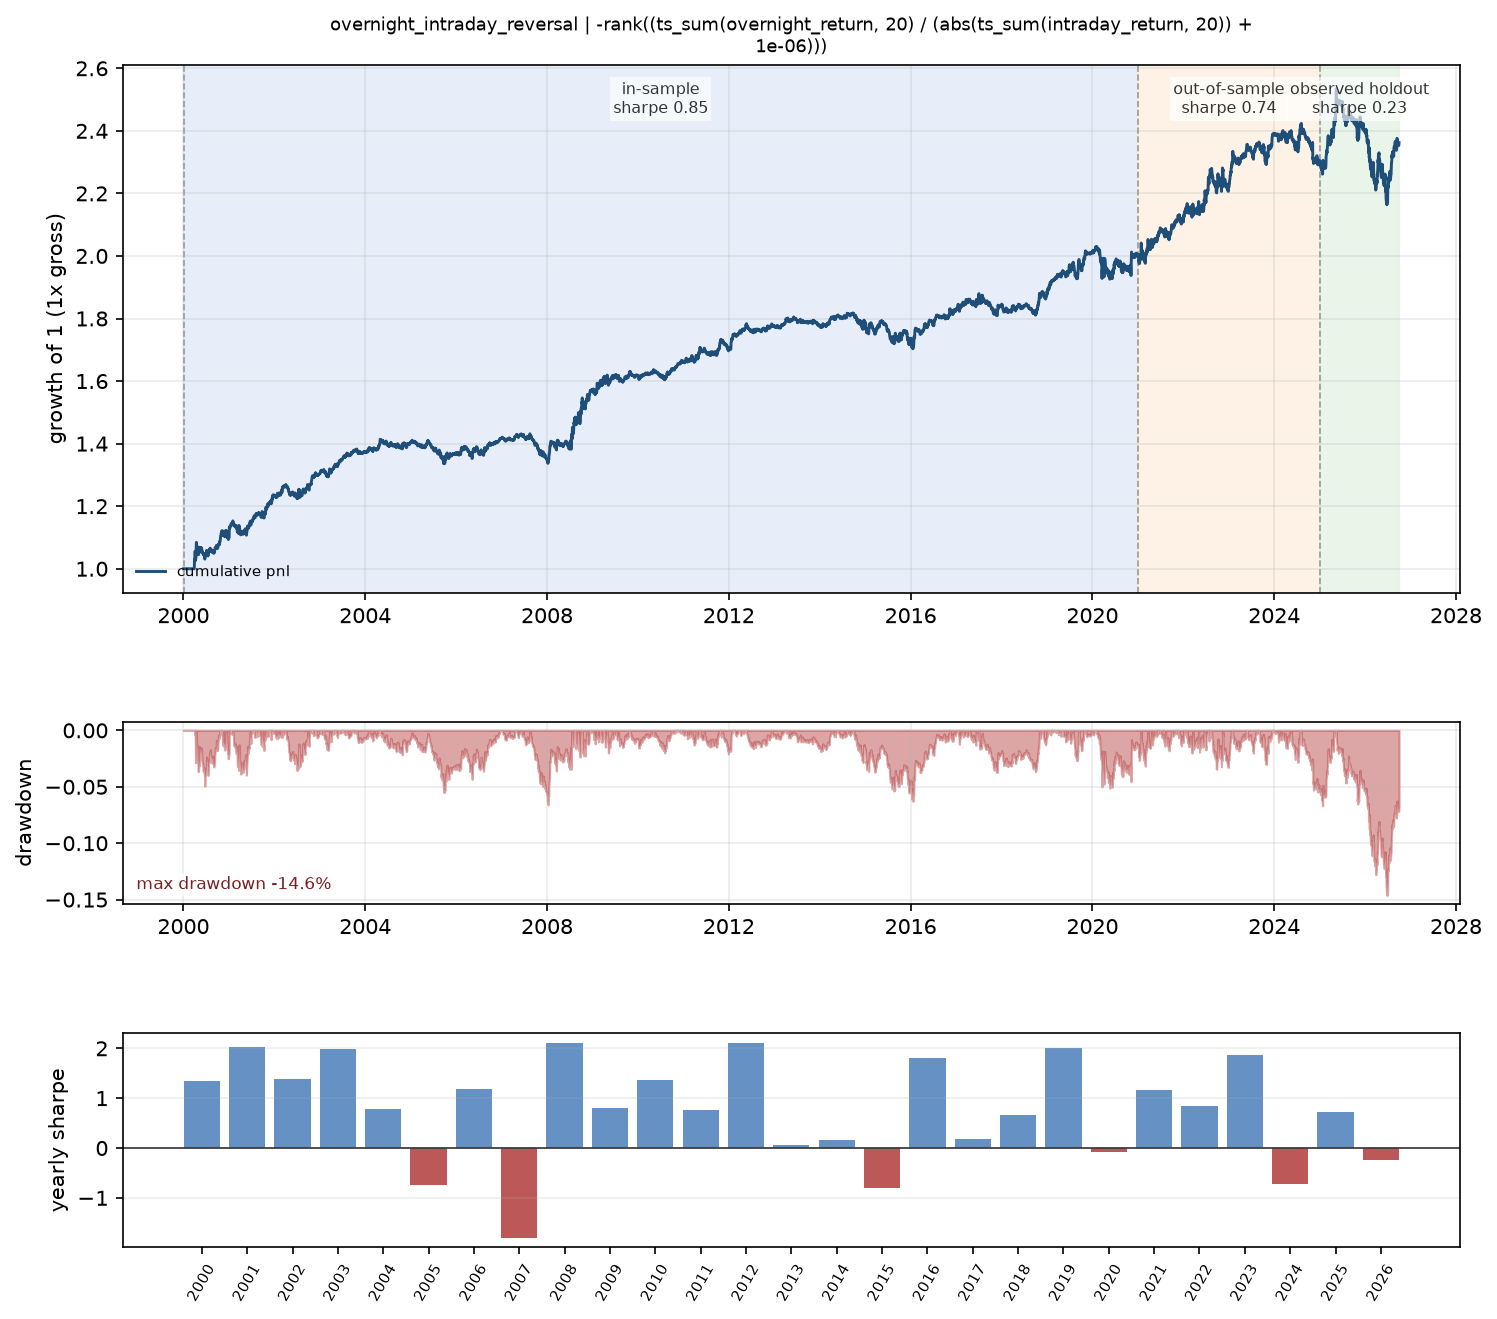
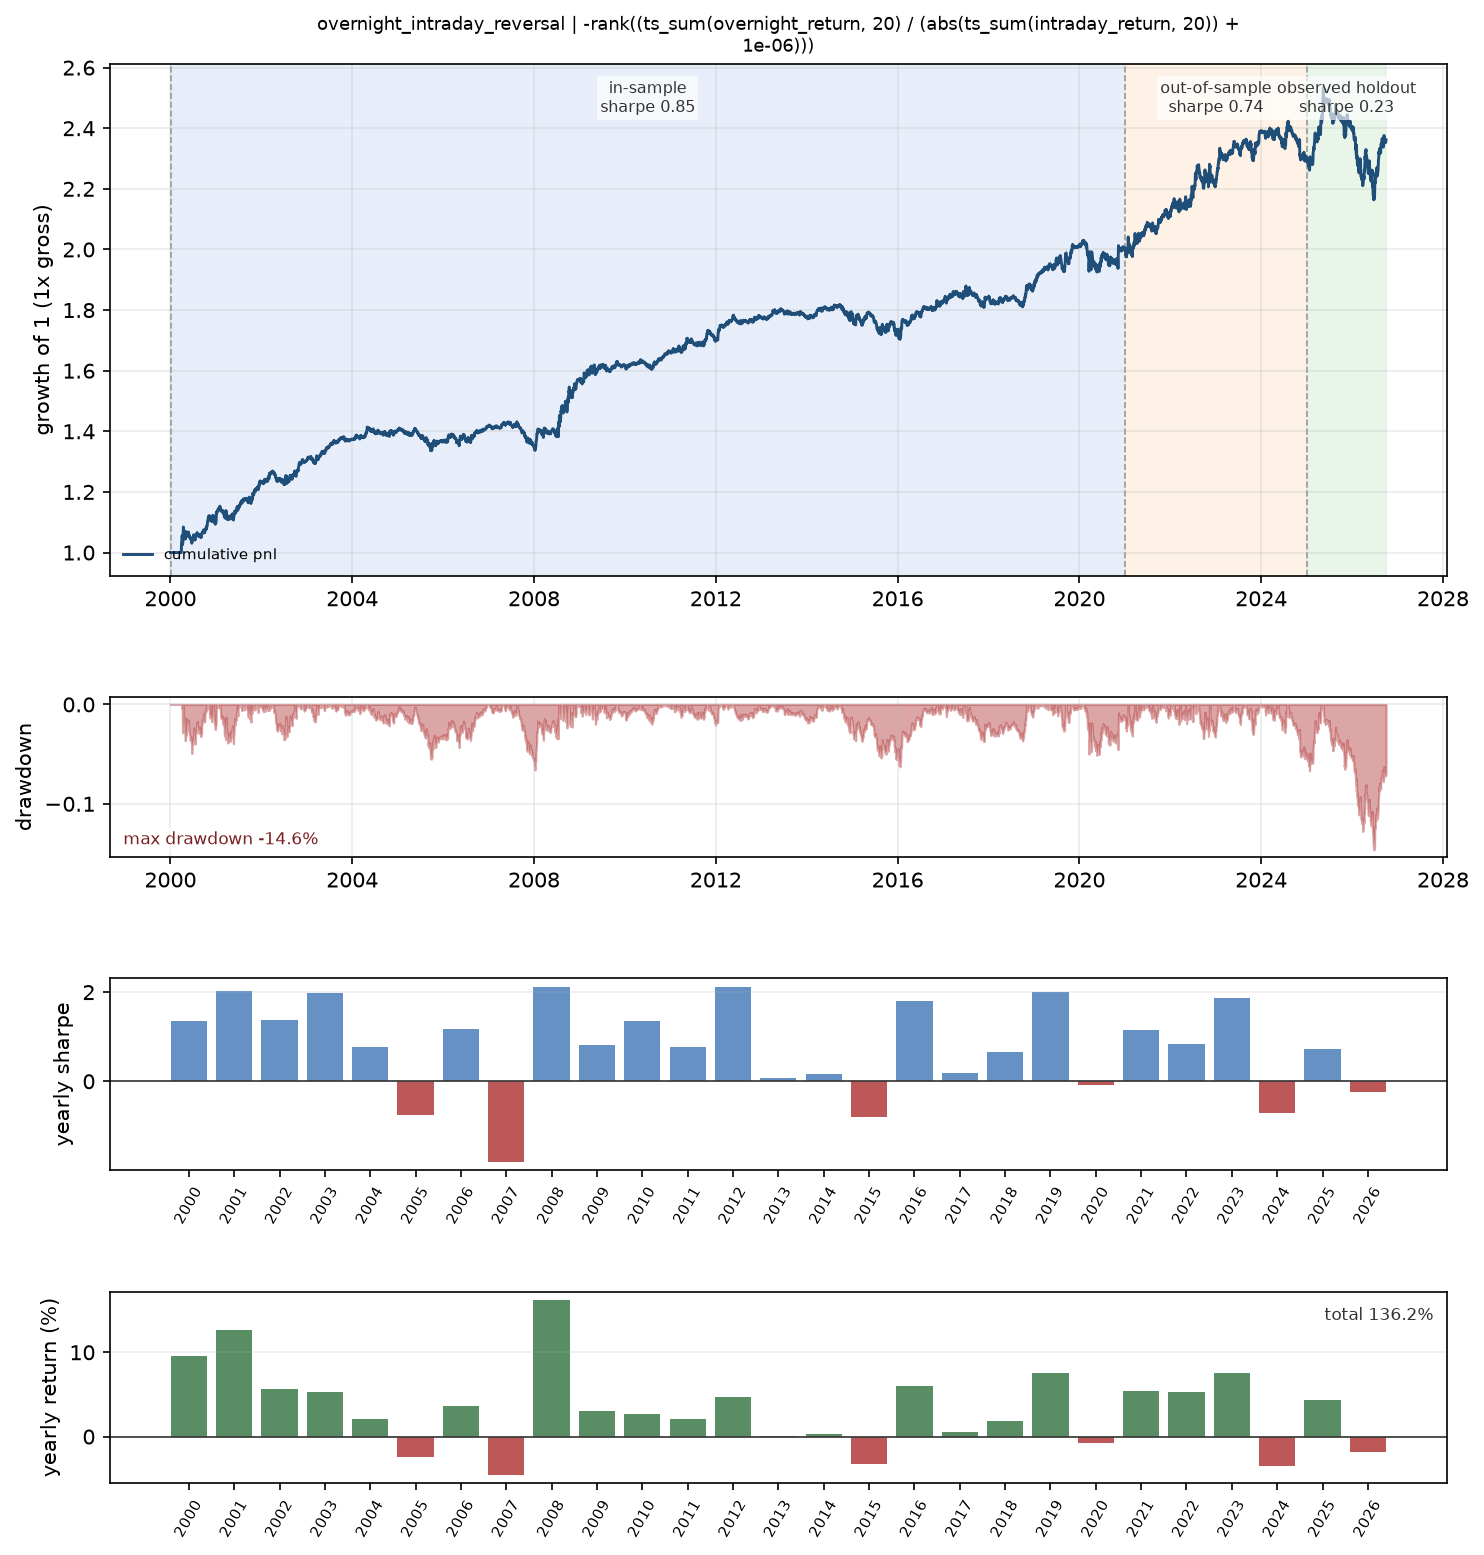
feat(view): add yearly return panel to experiment figures
- figures are now four panels: equity (segment shading), drawdown,
  yearly sharpe, yearly return (%)
- plotting refactored into draw_panels so figures can be redrawn from the
  saved daily csv without replaying the backtest
- new 'replot' command refreshes a batch's figures; writes are atomic with
  retries so a briefly locked file cannot abort a batch
- all ten batch figures redrawn; 1 new test (85 total)

diff --git a/factorlab/view.py b/factorlab/view.py
@@ -167,22 +167,58 @@ def plot_result(
     out_path: Path,
     title: str,
 ) -> Path:
+    return draw_panels(
+        result.pnl,
+        result.turnover,
+        result.ic,
+        result.segments or {},
+        masks,
+        out_path,
+        title,
+    )
+
+
+def plot_from_daily(
+    daily_csv: str | Path,
+    masks,
+    segments: dict,
+    out_path: Path,
+    title: str,
+) -> Path:
+    """Redraw from a saved ``*_daily.csv`` without replaying the backtest."""
+    frame = pd.read_csv(Path(daily_csv), index_col=0, parse_dates=True)
+    return draw_panels(
+        frame["pnl"],
+        frame.get("turnover"),
+        frame.get("rank_ic"),
+        segments,
+        masks,
+        out_path,
+        title,
+    )
+
+
+def draw_panels(pnl_series, turnover_series, ic_series, segments, masks, out_path: Path, title: str) -> Path:
+    """Equity, drawdown, yearly sharpe and yearly return in one figure."""
     import matplotlib
 
     matplotlib.use("Agg")
     import matplotlib.pyplot as plt
     from matplotlib.transforms import blended_transform_factory
 
-    pnl = result.pnl.fillna(0.0)
+    pnl = pd.Series(pnl_series).fillna(0.0)
+    turnover = pd.Series(turnover_series) if turnover_series is not None else pd.Series(0.0, index=pnl.index)
+    ic = pd.Series(ic_series) if ic_series is not None else pd.Series(np.nan, index=pnl.index)
     equity = (1 + pnl).cumprod()
     drawdown = equity / equity.cummax() - 1
-    yearly = yearly_stats(result.pnl, result.turnover, result.ic)
+    yearly = yearly_stats(pnl, turnover, ic)
+    segments = segments or {}
 
     fig, axes = plt.subplots(
-        3,
+        4,
         1,
-        figsize=(11.5, 9.5),
-        gridspec_kw={"height_ratios": [3.2, 1.1, 1.3], "hspace": 0.42},
+        figsize=(11.5, 11.4),
+        gridspec_kw={"height_ratios": [3.2, 1.0, 1.2, 1.2], "hspace": 0.46},
     )
 
     # ---- equity, shaded by segment -----------------------------------
@@ -201,7 +237,7 @@ def plot_result(
         idx = mask.index[mask.to_numpy()]
         ax.axvspan(idx[0], idx[-1], color=color, alpha=0.75, zorder=0)
         ax.axvline(idx[0], color="#999999", linewidth=0.8, linestyle="--", zorder=1)
-        seg = (result.segments or {}).get(name) or {}
+        seg = segments.get(name) or {}
         ax.text(
             idx[0] + (idx[-1] - idx[0]) * 0.5,
             0.97,
@@ -244,11 +280,48 @@ def plot_result(
         ax.tick_params(axis="x", labelrotation=60, labelsize=7)
         ax.grid(alpha=0.2, axis="y")
 
+    # ---- yearly return (percent) --------------------------------------
+    ax = axes[3]
+    if not yearly.empty:
+        values = yearly["return"] * 100.0
+        colors = ["#3c7a4a" if v >= 0 else "#b23b3b" for v in values]
+        ax.bar(yearly.index.astype(str), values, color=colors, alpha=0.85)
+        ax.axhline(0, color="#333333", linewidth=0.8)
+        ax.set_ylabel("yearly return (%)")
+        ax.tick_params(axis="x", labelrotation=60, labelsize=7)
+        ax.grid(alpha=0.2, axis="y")
+        total = float(equity.iloc[-1] - 1) if len(equity) else float("nan")
+        ax.text(
+            0.99,
+            0.92,
+            f"total {total:.1%}",
+            transform=ax.transAxes,
+            ha="right",
+            va="top",
+            fontsize=8,
+            color="#333333",
+            bbox={"facecolor": "white", "alpha": 0.7, "edgecolor": "none", "pad": 1.5},
+        )
+
+    import os
+    import time
+
     out_path.parent.mkdir(parents=True, exist_ok=True)
     fig.subplots_adjust(top=0.90, bottom=0.07)
-    fig.savefig(out_path, dpi=150, bbox_inches="tight")
+    tmp_path = out_path.with_name(out_path.name + ".tmp.png")
+    fig.savefig(tmp_path, dpi=150, bbox_inches="tight")
     plt.close(fig)
-    return out_path
+    last_error: Optional[OSError] = None
+    for _ in range(5):
+        try:
+            os.replace(tmp_path, out_path)  # atomic; avoids locked-target writes
+            return out_path
+        except OSError as exc:  # antivirus / viewer briefly holding the file
+            last_error = exc
+            time.sleep(0.5)
+    if tmp_path.exists():
+        tmp_path.unlink(missing_ok=True)
+    raise last_error
 
 
 def _segment_table(result) -> str:

diff --git a/factorlab/replot.py b/factorlab/replot.py
@@ -1,0 +1,69 @@
+"""Redraw a batch's figures from saved daily pnl without replaying backtests.
+
+``python -m factorlab.replot --batch experiments/batch10``
+"""
+
+from __future__ import annotations
+
+import argparse
+from pathlib import Path
+
+import pandas as pd
+
+from .backtest.split import resolve_split
+from .config import PROJECT_ROOT
+from .data import load_processed
+from .view import plot_from_daily
+
+
+def replot(batch_dir: str | Path) -> int:
+    batch_dir = Path(batch_dir)
+    if not batch_dir.is_absolute():
+        batch_dir = PROJECT_ROOT / batch_dir
+    summary = pd.read_csv(batch_dir / "summary.csv")
+    if summary.empty:
+        raise SystemExit(f"no rows in {batch_dir / 'summary.csv'}")
+
+    panel = load_processed(PROJECT_ROOT / "data" / "processed" / "panel")
+    masks = resolve_split(panel.dates, panel.meta.get("default_split"))
+
+    drawn = 0
+    for row in summary.to_dict("records"):
+        plot_name = str(row.get("plot") or "")
+        if not plot_name:
+            continue
+        daily = batch_dir / plot_name.replace(".png", "_daily.csv")
+        if not daily.exists():
+            print(f"skip {row['hypothesis']}: missing {daily.name}")
+            continue
+        segments = {
+            seg: {
+                "sharpe": row.get(f"sharpe_{seg}"),
+                "ann_return": row.get(f"ann_return_{seg}"),
+                "turnover": row.get(f"turnover_{seg}"),
+                "max_drawdown": row.get(f"max_drawdown_{seg}"),
+                "rank_ic": row.get(f"rank_ic_{seg}"),
+            }
+            for seg in ("is", "oos", "holdout")
+        }
+        plot_from_daily(
+            daily,
+            masks,
+            segments,
+            batch_dir / plot_name,
+            f"{row['hypothesis']} | {row.get('expression', '')}",
+        )
+        drawn += 1
+    print(f"redrew {drawn} figures in {batch_dir}")
+    return drawn
+
+
+def main() -> None:
+    parser = argparse.ArgumentParser(description=__doc__)
+    parser.add_argument("--batch", default="experiments/batch10")
+    args = parser.parse_args()
+    replot(args.batch)
+
+
+if __name__ == "__main__":
+    main()

diff --git a/tests/test_view.py b/tests/test_view.py
@@ -37,6 +37,27 @@ class TestViewReplay(unittest.TestCase):
         self.assertEqual(float(result.pnl.fillna(0).abs().max()), 0.)
         self.assertTrue(np.isnan(result.metrics['sharpe']))
 
+    def test_draw_panels_writes_four_panel_figure(self):
+        import numpy as np
+        import pandas as pd
+        from PIL import Image
+        from factorlab.backtest.split import SplitMasks
+        from factorlab.view import draw_panels
+
+        idx = pd.bdate_range("2020-01-01", periods=300)
+        rng = np.random.default_rng(0)
+        pnl = pd.Series(rng.normal(0, 0.001, 300), index=idx)
+        turnover = pd.Series(0.2, index=idx)
+        ic = pd.Series(0.01, index=idx)
+        masks = SplitMasks(masks={"is": pd.Series(True, index=idx)}, meta={})
+        with tempfile.TemporaryDirectory() as tmp:
+            out = Path(tmp) / "figure.png"
+            draw_panels(pnl, turnover, ic, {}, masks, out, "test factor")
+            self.assertTrue(out.exists())
+            with Image.open(out) as image:
+                width, height = image.size
+            self.assertGreater(height, width)  # four stacked panels
+
     def test_unchanged_expression_without_windows(self):
         a = {'spec': {'expression': 'rank(close)'}, 'grid': {'best': {'windows': []}}}
         self.assertEqual(winning_expression(a), 'rank(close)')

diff --git a/README.md b/README.md
@@ -520,7 +520,7 @@ python -m factorlab ledger --sort sharpe_oos --top 20
 ```
 
 Inspect one experiment (rebuilds the factor from its spec, re-runs the backtest,
-and plots equity / drawdown / yearly sharpe while printing the segment and yearly
+and plots equity / drawdown / yearly sharpe / yearly return while printing the segment
 tables):
 
 ```powershell
@@ -1036,7 +1036,7 @@ python -m factorlab ledger --rebuild
 python -m factorlab ledger --sort sharpe_oos --top 20
 ```
 
-查看单个实验（按 spec 重建因子并重跑回测，画出净值/回撤/分年 Sharpe，同时打印分段与分年统计表）：
+查看单个实验（按 spec 重建因子并重跑回测，画出净值 / 回撤 / 分年 Sharpe / 分年收益四联图，同时打印分段与分年统计表）：
 
 ```powershell
 python -m factorlab view                 # 列出 ledger
